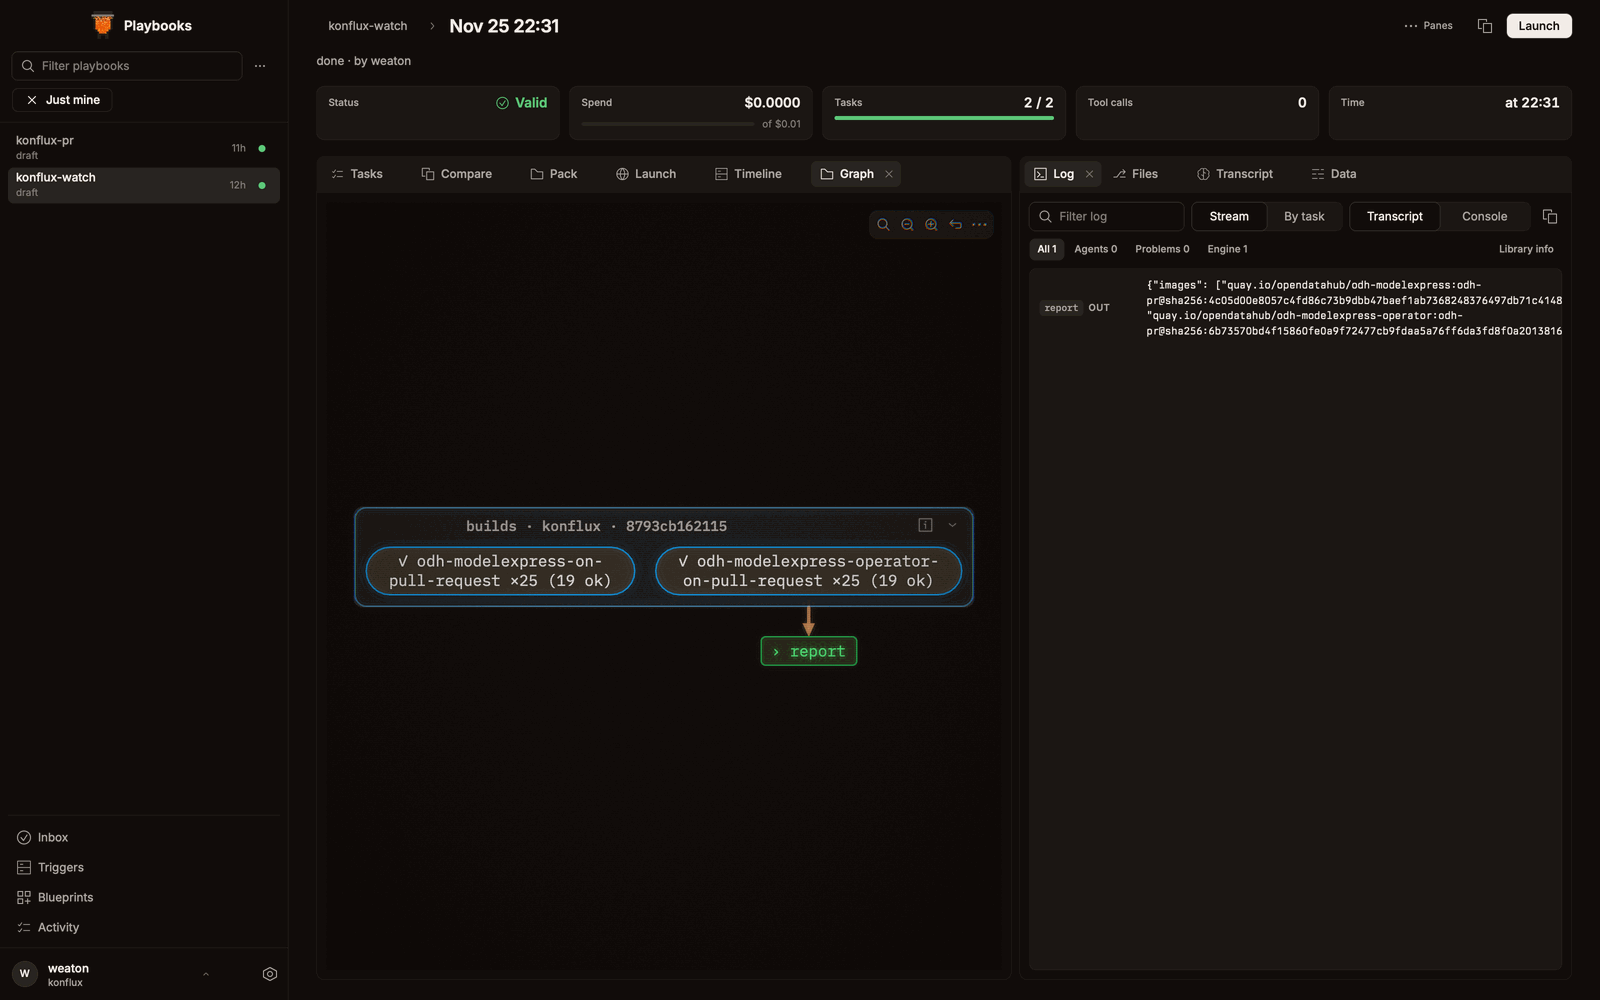
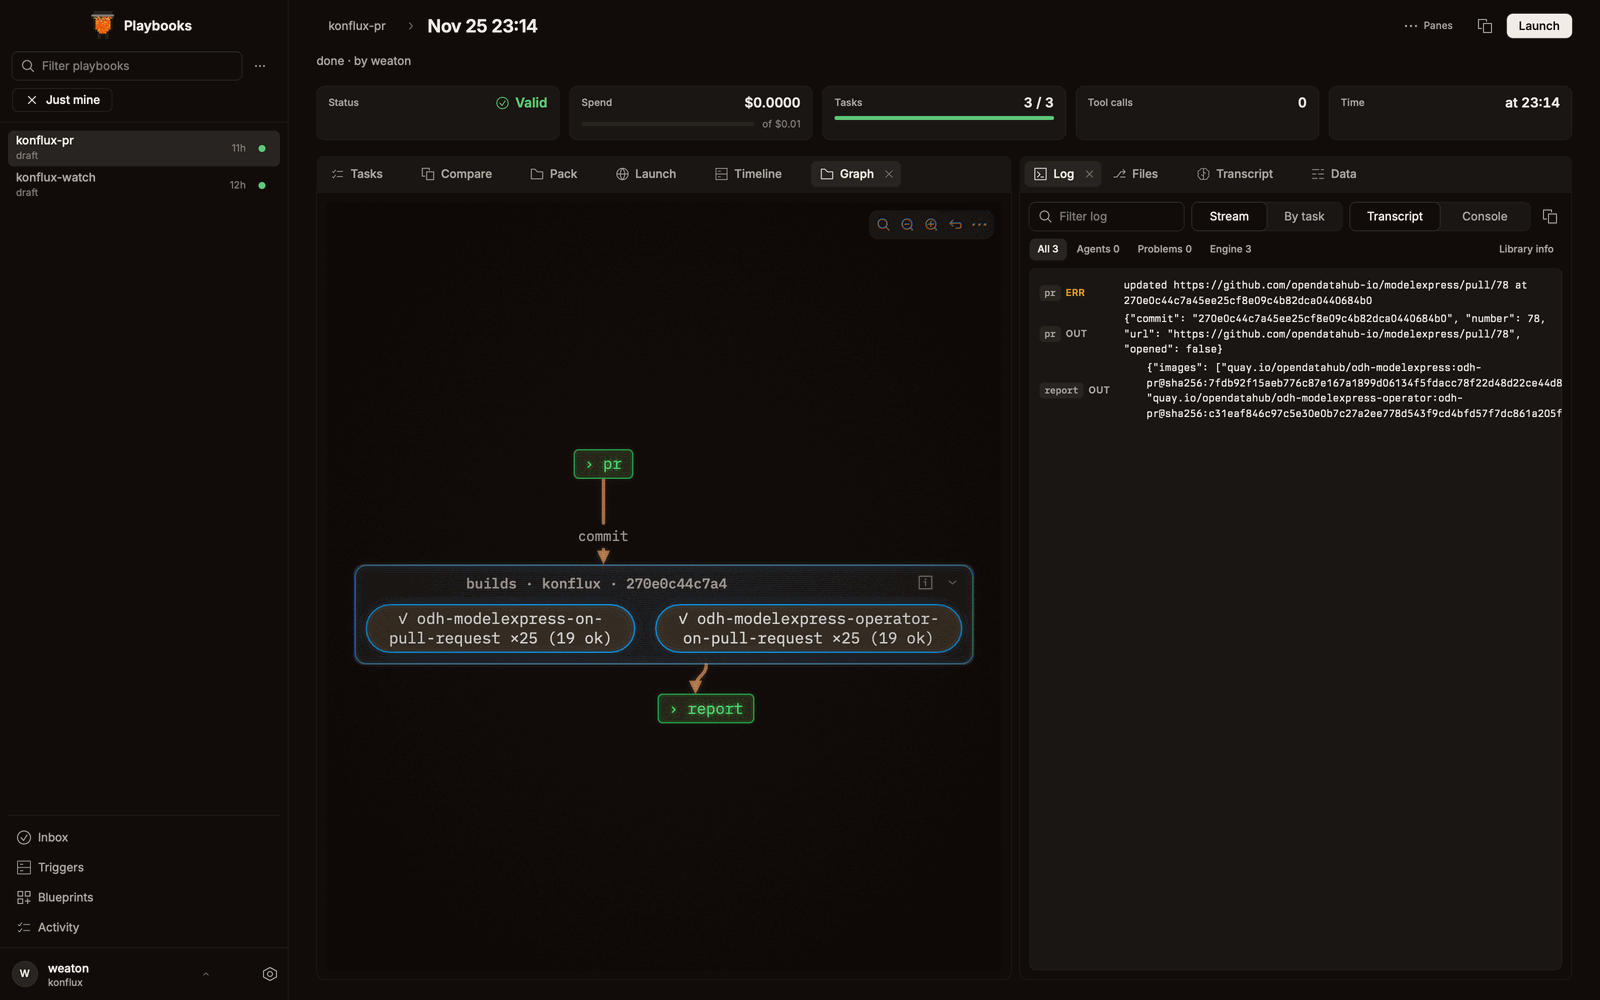
Rank every run of a call frame between its neighbours
An edge into a subgraph is redirected to its first member and an edge out of it leaves from its last, so a frame of unconnected runs (a Konflux watch on two PipelineRuns) ranked only one run under the caller and split the frame across ranks. Each frame now names the nodes nothing inside it feeds or is fed by, and the graph adds invisible links from the frame's caller to every such entry and from every such exit to its dependent, after all styled edges so linkStyle indices hold. The README shows the Konflux pull request run in place of the watch alone.

diff --git a/crucible-desktop/src/ui/graph_source.rs b/crucible-desktop/src/ui/graph_source.rs
@@ -517,6 +517,7 @@ pub(crate) fn mermaid_source<'a>(tasks: &'a [TaskView], shown: &Shown, ink: &Ink
     let critical = critical_path(tasks);
     let above = ancestors(tasks);
     let (mut faded, mut heavy) = (Vec::new(), Vec::new());
+    let mut ranks: Vec<String> = Vec::new();
     for (to, task) in tasks.iter().enumerate() {
         let passed_over = matches!(
             task.state(),
@@ -622,6 +623,20 @@ pub(crate) fn mermaid_source<'a>(tasks: &'a [TaskView], shown: &Shown, ink: &Ink
                 format!("t{to}")
             };
             source.push_str(&format!("  {source_id} {arrow}{label} {target_id}\n"));
+            if open_frame(to)
+                && let Some(frame) = frames.get(to).and_then(Option::as_ref)
+            {
+                for entry in &frame.entries {
+                    ranks.push(format!("  {source_id} ~~~ {entry}\n"));
+                }
+            }
+            if let Some(f) = from.filter(|&f| source_id == format!("g{f}") && open_frame(f))
+                && let Some(frame) = frames.get(f).and_then(Option::as_ref)
+            {
+                for exit in &frame.exits {
+                    ranks.push(format!("  {exit} ~~~ {target_id}\n"));
+                }
+            }
             if passed_over {
                 faded.push(edge.to_string());
             } else if from.is_some_and(|f| critical.contains(&(f, to))) {
@@ -701,6 +716,9 @@ pub(crate) fn mermaid_source<'a>(tasks: &'a [TaskView], shown: &Shown, ink: &Ink
             id(open),
             ink.accent.hex()
         ));
+    }
+    for rank in ranks {
+        source.push_str(&rank);
     }
     source
 }
@@ -1391,7 +1409,9 @@ mod tests {
         let open = called(&tasks, None, &[], &targets, &[]);
         contains_all(
             &open,
-            &["  subgraph g1 [\"ship \u{b7} release \u{b7} app #10\u{2800}\u{2800}\u{2800}\u{2800}\u{2800}\u{2800}\u{2800}\u{2800}\u{2800}\u{2800}\u{2800}\u{2800}\u{2800}\u{2800}\"]\n"],
+            &[
+                "  subgraph g1 [\"ship \u{b7} release \u{b7} app #10\u{2800}\u{2800}\u{2800}\u{2800}\u{2800}\u{2800}\u{2800}\u{2800}\u{2800}\u{2800}\u{2800}\u{2800}\u{2800}\u{2800}\"]\n",
+            ],
         );
         let folded = called(&tasks, None, &[], &targets, &["ship"]);
         contains_all(
@@ -1401,7 +1421,9 @@ mod tests {
         let unnumbered = called(&tasks, None, &[], &Targets::new(&shipping(), None), &[]);
         contains_all(
             &unnumbered,
-            &["  subgraph g1 [\"ship \u{b7} release \u{b7} app\u{2800}\u{2800}\u{2800}\u{2800}\u{2800}\u{2800}\u{2800}\u{2800}\u{2800}\u{2800}\u{2800}\u{2800}\u{2800}\u{2800}\"]\n"],
+            &[
+                "  subgraph g1 [\"ship \u{b7} release \u{b7} app\u{2800}\u{2800}\u{2800}\u{2800}\u{2800}\u{2800}\u{2800}\u{2800}\u{2800}\u{2800}\u{2800}\u{2800}\u{2800}\u{2800}\"]\n",
+            ],
         );
     }
 
@@ -1452,6 +1474,65 @@ mod tests {
         };
         assert!(stroke("job_gitlab_pipeline").is_some(), "{open}");
         assert_ne!(stroke("job_gitlab_pipeline"), stroke("job_github_workflow"));
+        let style = rune_mermaid::DiagramStyle::neutral(true);
+        assert!(
+            rune_mermaid::render_with_hover(&open, &style, rune_mermaid::Hover::Off, Color::WHITE)
+                .is_some(),
+            "{open}"
+        );
+    }
+
+    const WATCHED: &str = concat!(
+        r#"{"v":1,"kind":"plan_admitted","plan_version":1,"budget_usd":1.0,"tasks":["#,
+        r#"{"name":"pr","kind":"command","required":true},"#,
+        r#"{"name":"builds","kind":"call","depends_on":["pr"],"required":true,"call":{"alias":"konflux","target":"tekton","params":{"commit":"pr"}}},"#,
+        r#"{"name":"report","kind":"command","depends_on":["builds"],"required":true}"#,
+        r#"]}"#,
+        "\n",
+        r#"{"v":1,"kind":"call_dispatched","task":"builds","attempt":1,"alias":"konflux","call":"c-1","handle":{"kind":"tekton_watch","cluster":"k","namespace":"tenant","commit":"abc"}}"#,
+        "\n",
+    );
+
+    #[test]
+    fn a_frame_of_unconnected_runs_ranks_each_between_its_callers_neighbours() {
+        let tasks = fold(WATCHED);
+        let view = serde_json::from_value(serde_json::json!({
+            "task": "builds",
+            "attempt": 1,
+            "alias": "konflux",
+            "kind": "tekton",
+            "state": {
+                "call": "c-1",
+                "status": "passed",
+                "handle": {"kind": "tekton_watch", "cluster": "k", "namespace": "tenant", "commit": "abc"},
+                "progress": {
+                    "nodes": [
+                        {"id": "server", "label": "server", "status": "pass"},
+                        {"id": "operator", "label": "operator", "status": "pass"}
+                    ],
+                    "edges": []
+                }
+            }
+        }))
+        .unwrap();
+        let calls = vec![LiveCall { view, launch: None }];
+        let targets = Targets::new(&calls, None);
+        let open = called(&tasks, None, &[], &targets, &[]);
+        let ranks = [
+            "  t0 ~~~ t1c0\n",
+            "  t0 ~~~ t1c1\n",
+            "  t1c0 ~~~ t2\n",
+            "  t1c1 ~~~ t2\n",
+        ];
+        contains_all(&open, &["t0 -->|commit| g1\n", "g1 --> t2\n"]);
+        contains_all(&open, &ranks);
+        let first_rank = ranks.iter().filter_map(|r| open.find(r)).min().unwrap();
+        let last_style = open.rfind("linkStyle").unwrap_or(0);
+        let last_class = open.rfind("  class ").unwrap_or(0);
+        assert!(
+            first_rank > last_style && first_rank > last_class,
+            "ranking links come after every styled edge: {open}"
+        );
         let style = rune_mermaid::DiagramStyle::neutral(true);
         assert!(
             rune_mermaid::render_with_hover(&open, &style, rune_mermaid::Hover::Off, Color::WHITE)

diff --git a/crucible-desktop/src/ui/graph_call.rs b/crucible-desktop/src/ui/graph_call.rs
@@ -257,6 +257,8 @@ pub(crate) struct Frame {
     pub(crate) links: usize,
     pub(crate) picked: Option<String>,
     pub(crate) kind: CallKind,
+    pub(crate) entries: Vec<String>,
+    pub(crate) exits: Vec<String>,
 }
 
 impl Default for Frame {
@@ -268,6 +270,8 @@ impl Default for Frame {
             links: 0,
             picked: None,
             kind: CallKind::Playbook,
+            entries: Vec::new(),
+            exits: Vec::new(),
         }
     }
 }
@@ -383,6 +387,17 @@ pub(crate) fn frame(
         }
     }
     let fed: HashSet<usize> = edges.iter().map(|(_, to)| *to).collect();
+    let feeds: HashSet<usize> = edges.iter().map(|(from, _)| *from).collect();
+    let entries = shown
+        .iter()
+        .filter(|n| !fed.contains(n))
+        .map(|n| format!("{anchor}c{n}"))
+        .collect();
+    let exits = shown
+        .iter()
+        .filter(|n| !feeds.contains(n))
+        .map(|n| format!("{anchor}c{n}"))
+        .collect();
     let mut nodes = shown.len();
     let mut links = 0;
     let anchored = at.instance.is_some();
@@ -416,6 +431,8 @@ pub(crate) fn frame(
         links,
         picked,
         kind,
+        entries,
+        exits,
     }
 }
 

diff --git a/README.md b/README.md
@@ -172,7 +172,7 @@ workflow(type = "playbook", tasks = [prep, ci, summary], result = summary)
   <img src="docs/img/calls-gitlab.png" alt="A GitLab pipeline drawn in GitLab orange inside its caller's graph: build, a two-job test stage and report, titled crucible-call-demo #4, between the prep and report tasks." width="800">
 </p>
 <p align="center">
-  <img src="docs/img/calls-konflux.png" alt="A watch on Konflux: the two Pipelines-as-Code PipelineRuns a pull request commit started, both passed, feeding a report task that reads their image digests." width="800">
+  <img src="docs/img/calls-konflux.png" alt="A pr task pushes a pull request and hands its commit to a watch on Konflux, which waits for the two Pipelines-as-Code PipelineRuns that commit started. Both passed, and the report task reads their image digests." width="800">
 </p>
 
 When it saves a pack, the controller writes `calls.lock`. The lock pins each target (a playbook
